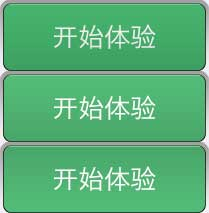
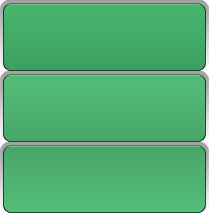
Add a button to index page

diff --git a/app/views/partials/main.html b/app/views/partials/main.html
@@ -14,11 +14,10 @@
 	  		<span class="m-user-reportcount col-sm-9"><span class="glyphicon glyphicon-stats"></span>&nbsp;&nbsp;已发周报</span>
 	  		<span class="repoCount col-sm-3"><span class="badge">{{ currentUser.reportCount||0 }}<span></span>
 	  	</div>
-	   	<div class="m-user-last" ng-if="currentUser.lastDate">
-	   		<p>上篇周报发送时间：</p>
-	   		<p>{{ currentUser.lastDate }}</p>
-	   	</div>
 	  </div>
+    <div class="m-newRepo row m-index-block">
+      <a href="/report/edit"><i class="glyphicon glyphicon-plus"></i>&nbsp;&nbsp;新建周报</a>
+    </div>
 	  <div class="m-curWeek row m-index-block">
 	  	<div class="m-curWeek-title"><i class="glyphicon glyphicon-list-alt"></i>&nbsp;&nbsp;本周工作</div>
 	  	<ol class="m-curWeek-content">

diff --git a/app/styles/feature.less b/app/styles/feature.less
@@ -18,16 +18,20 @@
 .features_main {
 	position: relative;
 
-	.btn-start {
-		width: 211px;
-		height: 71px;
-		background: url("@{imgPath}/btn.jpg") no-repeat 0 -1px;
-		&:hover {
-			background-position: 0 -72px;
-		}
-		&:active {
-			background-position: 0 -143px;
-		}
+}
+.btn-start {
+	width: 211px;
+	height: 71px;
+	font-size: 26px;
+	color:white;
+	line-height: 61px;
+	text-align: center;
+	background: url("@{imgPath}/btn.jpg") no-repeat 0 -1px;
+	&:hover {
+		background-position: 0 -72px;
+	}
+	&:active {
+		background-position: 0 -143px;
 	}
 }
 

diff --git a/app/styles/main.less b/app/styles/main.less
@@ -587,3 +587,22 @@ body {
         color:@c-red;
     }
 }
+
+.m-newRepo{
+    margin-top: 15px;
+    a{
+        display: inline-block;
+        width: 100%;       
+        height: 50px;
+        background: @c-green;
+        line-height: 50px;
+        text-align: center;
+        font-size: 20px;
+        color:white;
+        border-radius: 5px;
+    }
+    a:hover{
+        background: #348F54;
+        text-decoration: none;
+    }
+}

diff --git a/app/views/partials/features.html b/app/views/partials/features.html
@@ -2,7 +2,7 @@
 	<div class="m-features features_main">
 		<img src="/images/feature/feature_main.jpg" alt="">
 		<div class="btn-wrap">
-			<a href="/report/edit" class="btn btn-start"></a>
+			<a href="/report/edit" class="btn btn-start">立即体验</a>
 		</div>
 		<img src="/images/feature/feature_text.jpg" alt="">
 	</div>
